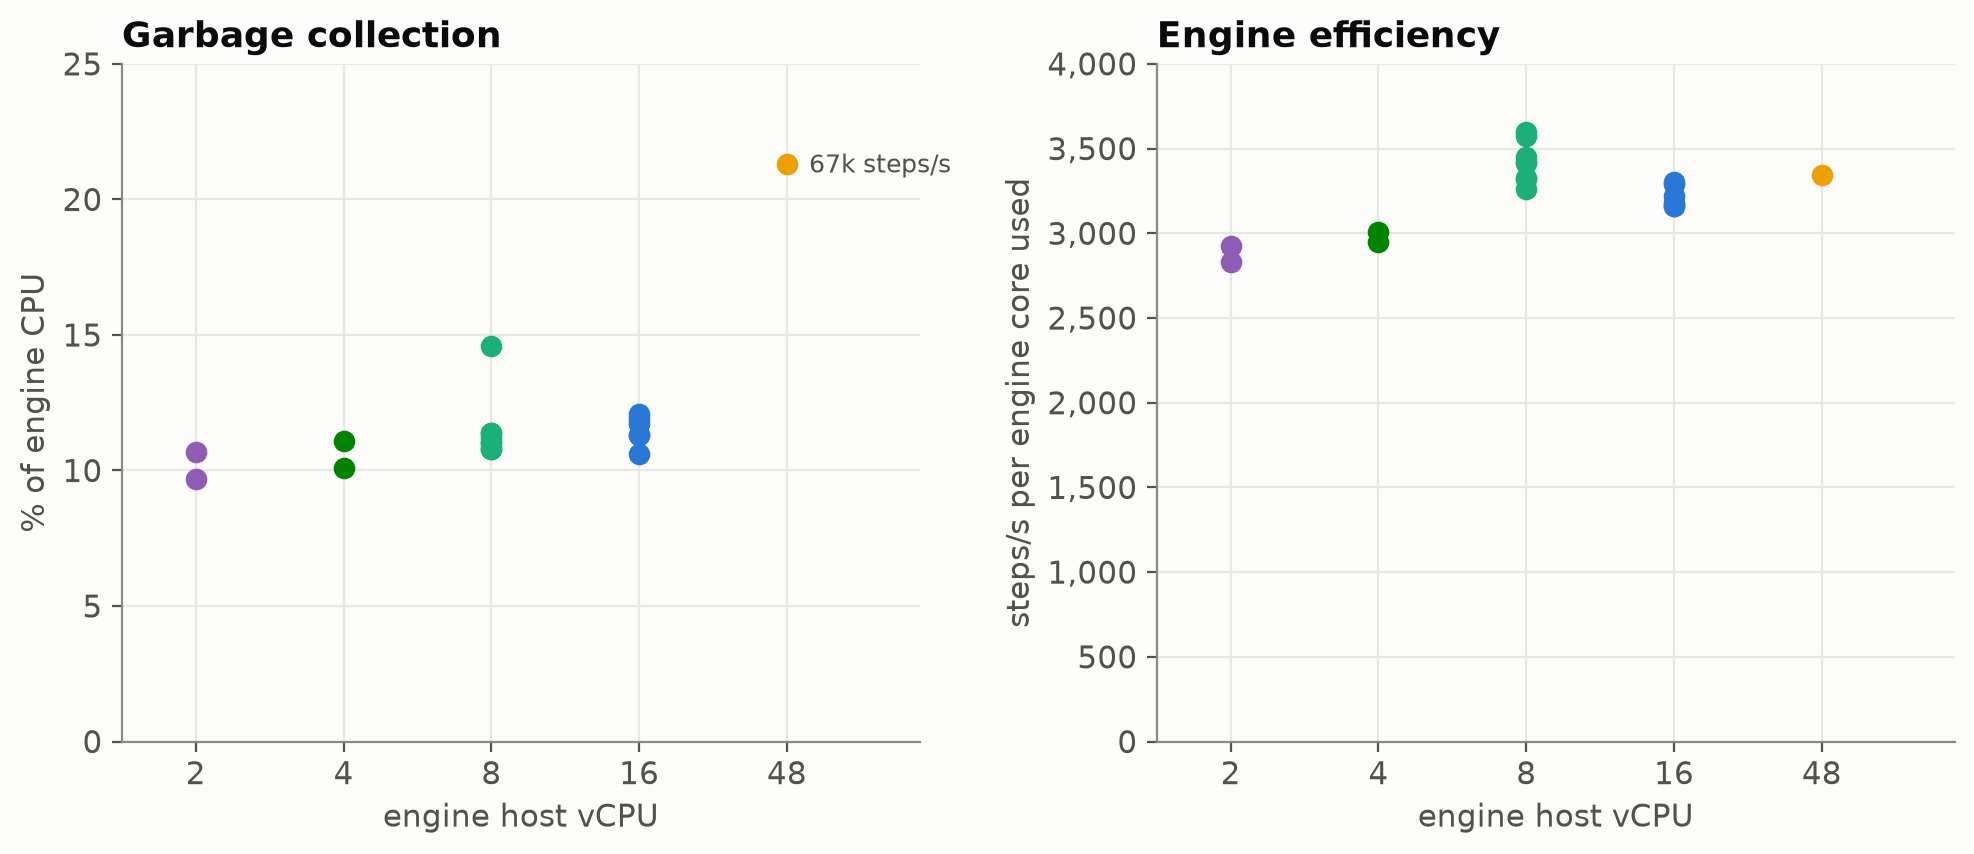
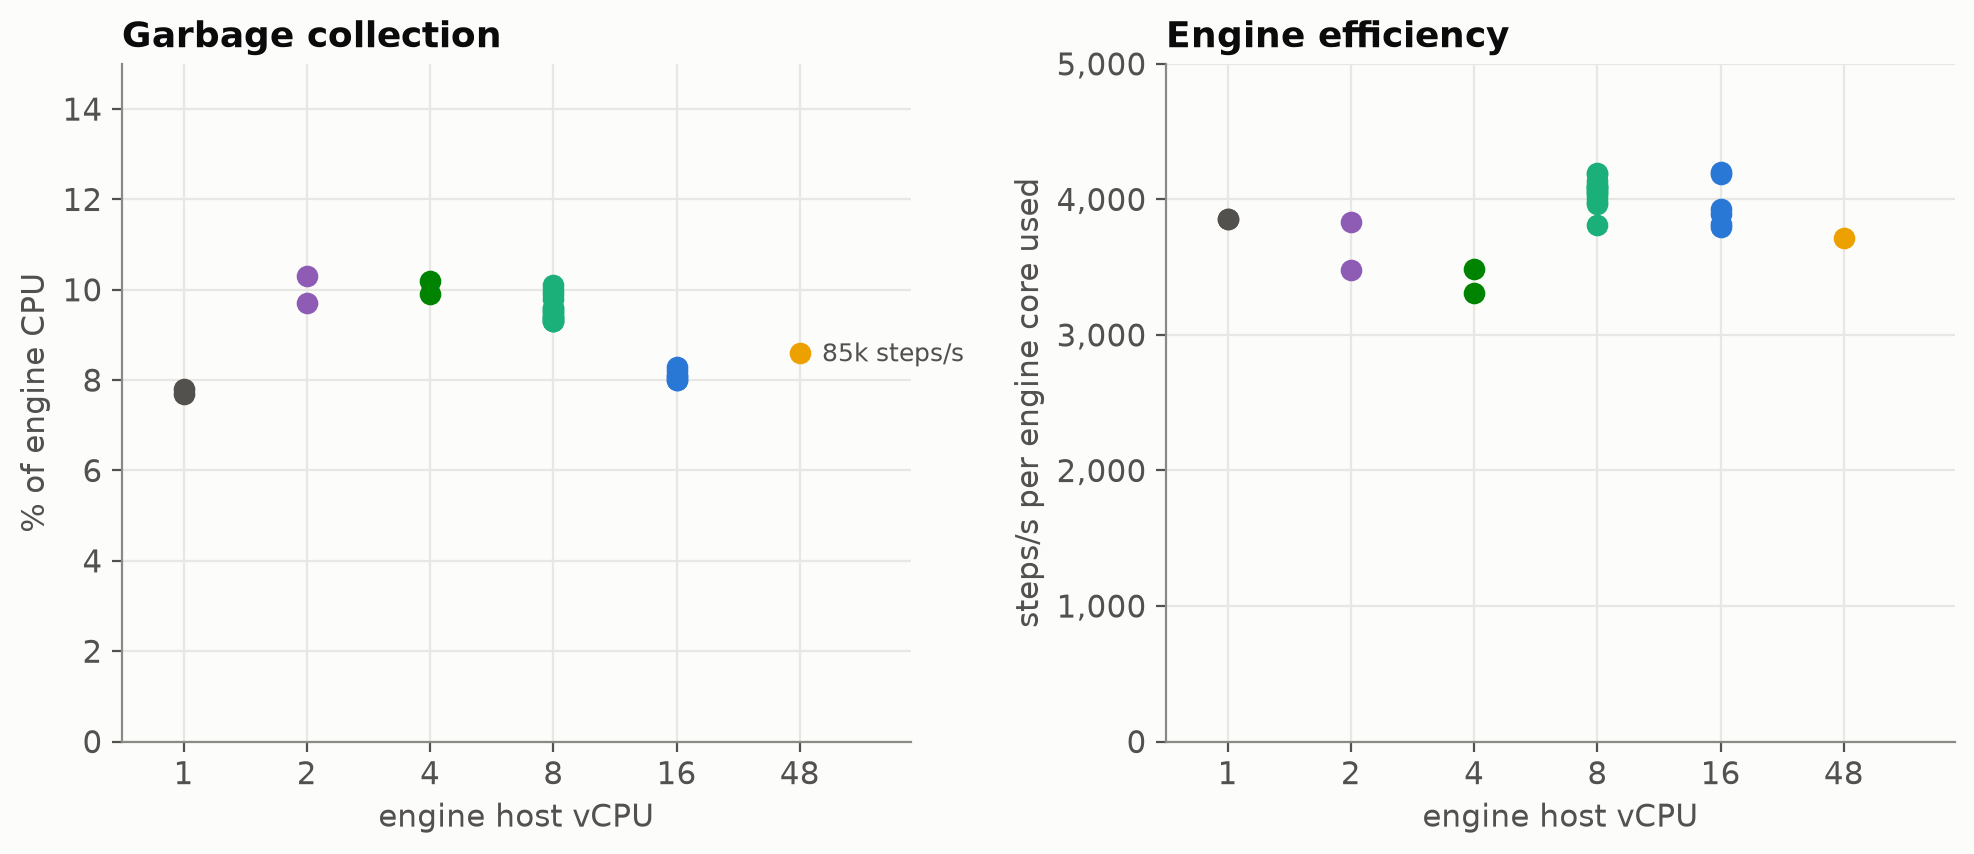
docs: shards, one engine for several, the recommended shape and engine hosts on the archive build
S-A (2026-11-06, e5dbf59, four 32 vCPU instances, 20 GB + lz4, archive on,
2 + 6 min): 1 / 2 / 4 shards with two 8 vCPU replicas each ran 24,108 /
47,437 / 91,800 steps/s (x1.00 / x1.97 / x3.81), and four shards on one
48 vCPU engine 84,648 (92% of the replicas, 22.8 cores, p99 5.0 s); every
shard's database check clean.

benchmark-cloud.md: the shards table and chart, the one-engine section, the
recommended shape and the engine-host table and chart replace the
pre-archive ones. Garbage collection now takes 8-10% of engine CPU on every
host from 1 to 48 vCPU (8.6% on 48), so the advice to cap GOMAXPROCS and
raise GOGC on large hosts, which rested on ~21% there, is gone. The one
16 vCPU replica per shard shape (S) is dropped: same price, less
throughput, one fewer replica to fail over to; its evidence (two shards on
one engine, 2026-10-10; four shards on 4 x 16 vCPU, earlier engine) goes
with it. deployment.md follows: the multi-shard reference rows, one engine
core per ~3,700 steps/s on a large host.

diff --git a/bench/charts_cloud.py b/bench/charts_cloud.py
@@ -142,19 +142,20 @@ def chart_tiers():
 
 
 # ---- Shards: grouped bars by fleet shape, a dashed linear mark over each group ----
-# One session on one set of four 32 vCPU instances, engine 9e5d16b, 2026-10-19 (redo-s2-20261019): the 4-shard
-# arms first, then the two slowest instances removed for 2 shards, then the next for 1. Each bar is the sum of its
-# replicas' artifacts.
-ONE_SHARD = 21267
+# S-A: one session on one set of four 32 vCPU instances, engine e5dbf59, archive on, 20 GB + lz4, 2 + 6 min,
+# 2026-11-06 (redo-sa-20261106): the 4-shard arms first, then the two slowest instances removed for 2 shards, then
+# the next for 1. Each bar is the sum of its replicas' artifacts.
+ONE_SHARD = 24108
 SHARD_GROUPS = [  # (shards, [(steps/s, tick label, colour)])
-    (1, [(21267, "2 replicas\n8 vCPU", S2)]),
-    (2, [(43135, "4 replicas\n8 vCPU", S2)]),
-    (4, [(81530, "8 replicas\n8 vCPU", S2), (66250, "1 replica\n48 vCPU", S3)]),
+    (1, [(24108, "2 replicas\n8 vCPU", S2)]),
+    (2, [(47437, "4 replicas\n8 vCPU", S2)]),
+    (4, [(91800, "8 replicas\n8 vCPU", S2), (84648, "1 replica\n48 vCPU", S3)]),
 ]
 
 
 def chart_shards():
     fig, ax = plt.subplots(figsize=(9, 5.2))
+    ax.set_axisbelow(True)
     w = 0.27
     ticks, ticklabels = [], []
     for g, (n, bars) in enumerate(SHARD_GROUPS):
@@ -173,9 +174,9 @@ def chart_shards():
     ax.set_xticklabels(ticklabels, fontsize=8.5)
     ax.tick_params(axis="x", length=0)
     ax.set_xlim(-0.6, len(SHARD_GROUPS) - 0.4)
-    ax.set_ylim(0, 96000)
+    ax.set_ylim(0, 106000)
     ax.yaxis.set_major_formatter(kilo)
-    ax.set_ylabel("steps/s (16-min window mean)")
+    ax.set_ylabel("steps/s (6-min window mean)")
     ax.set_title("Throughput by shard count and fleet shape")
     ax.legend(handles=[Patch(color=S2, label="two 8 vCPU replicas per shard"),
                        Patch(color=S3, label="one 48 vCPU replica for all shards"),
@@ -185,22 +186,27 @@ def chart_shards():
 
 
 # ---- Engine host size: GC share of engine CPU, and steps per engine core ----
-# One row per engine replica: (engine host vCPU, steps/s, engine cores used, GC % of engine CPU). GC share is
-# the CPU profile's cumulative runtime.gcBgMarkWorker + gcAssistAlloc + bgsweep; steps and cores are the
-# artifact's stepsPerSec and host.cpuCores.
+# One row per engine replica: (engine host vCPU, steps/s, engine cores used, GC % of engine CPU), from the artifact's
+# stepsPerSec, host.cpuCores and host.gcCPUPct (the Go runtime's own GC CPU accounting), all 2026-11-06 on the
+# archive build: 1, 2 and 4 vCPU from T-A (pairs on 4, 8, 16 vCPU databases), 16 vCPU from T-A's 64 vCPU arms and the
+# HA rig's 0 B runs, 8 vCPU from S-A's 8-, 4- and 2-replica arms, 48 vCPU from S-A's one replica on four shards.
 ENGINE_HOSTS = [
-    (16, 17938, 5.43, 11.3), (16, 8404, 2.66, 10.6), (16, 17133, 5.32, 12.1), (16, 16767, 5.27, 11.9),
-    (16, 17502, 5.32, 11.3), (16, 32564, 10.3, 11.7),
-    (8, 8455, 2.47, 14.6), (8, 9684, 2.97, 10.8), (8, 9770, 2.83, 11.4), (8, 9762, 2.86, 11.0),
-    (8, 9491, 2.86, 11.0), (8, 9545, 2.87, 10.8), (8, 9837, 2.75, 11.4), (8, 8385, 2.33, 11.2),
-    (48, 66843, 20.0, 21.3),
-    (2, 2010, 0.71, 10.7), (4, 3816, 1.27, 11.1), (2, 2049, 0.7, 9.7), (4, 3892, 1.32, 10.1),
+    (1, 925, 0.24, 7.8), (1, 925, 0.24, 7.7), (2, 2295, 0.66, 9.7), (2, 2298, 0.60, 10.3),
+    (4, 4106, 1.24, 10.2), (4, 4114, 1.18, 9.9),
+    (8, 11101, 2.77, 9.5), (8, 10915, 2.75, 9.3), (8, 11092, 2.73, 9.9), (8, 11927, 2.85, 9.6),
+    (8, 12036, 2.93, 9.4), (8, 11868, 2.93, 9.5), (8, 11939, 3.13, 10.0), (8, 10922, 2.68, 9.3),
+    (8, 11835, 2.89, 9.4), (8, 11867, 2.98, 9.6), (8, 11822, 2.82, 9.4), (8, 11913, 2.88, 10.1),
+    (8, 12023, 2.94, 9.8), (8, 12085, 2.99, 9.3),
+    (16, 14681, 3.77, 8.2), (16, 12300, 3.13, 8.3), (16, 14659, 3.86, 8.1), (16, 12293, 3.22, 8.0),
+    (16, 23938, 5.70, 8.1), (16, 24262, 5.79, 8.0),
+    (48, 84648, 22.78, 8.6),
 ]
 
 
 def chart_engine_hosts():
-    pos = {2: 0, 4: 1, 8: 2, 16: 3, 48: 4}
-    colour = {2: S5, 4: S4, 8: S2, 16: S1, 48: S3}
+    sizes = [1, 2, 4, 8, 16, 48]
+    pos = {v: i for i, v in enumerate(sizes)}
+    colour = {1: INK2, 2: S5, 4: S4, 8: S2, 16: S1, 48: S3}
     fig, axes = plt.subplots(1, 2, figsize=(10, 4.4))
     for vcpu, steps, cores, gc in ENGINE_HOSTS:
         axes[0].scatter(pos[vcpu], gc, s=46, color=colour[vcpu], zorder=3)
@@ -210,14 +216,15 @@ def chart_engine_hosts():
             axes[0].annotate(f"{steps / 1000:.0f}k steps/s", (pos[vcpu], gc), xytext=(8, -3),
                              textcoords="offset points", fontsize=9, color=INK2)
     for ax in axes:
-        ax.set_xticks([0, 1, 2, 3, 4])
-        ax.set_xticklabels(["2", "4", "8", "16", "48"])
+        ax.set_axisbelow(True)
+        ax.set_xticks(range(len(sizes)))
+        ax.set_xticklabels([str(v) for v in sizes])
         ax.set_xlabel("engine host vCPU")
-        ax.set_xlim(-0.5, 4.9)
-    axes[0].set_ylim(0, 25)
+        ax.set_xlim(-0.5, len(sizes) - 0.1)
+    axes[0].set_ylim(0, 15)
     axes[0].set_ylabel("% of engine CPU")
     axes[0].set_title("Garbage collection")
-    axes[1].set_ylim(0, 4000)
+    axes[1].set_ylim(0, 5000)
     axes[1].yaxis.set_major_formatter(matplotlib.ticker.FuncFormatter(lambda v, _: f"{v:,.0f}"))
     axes[1].set_ylabel("steps/s per engine core used")
     axes[1].set_title("Engine efficiency")

diff --git a/docs/benchmark-cloud.md b/docs/benchmark-cloud.md
@@ -22,8 +22,8 @@
   shards.
 - **The engine is cheap.** A shard's work takes about 5 engine cores. Two 8 vCPU engine hosts per
   32 vCPU database serve it at about a third of their CPU each, and either can carry it alone.
-- **Shards add throughput linearly.** Four 32 vCPU shards ran 81,530 steps/s, 3.8 times one shard, with
-  each shard at ~95% of what its database runs alone.
+- **Shards add throughput linearly.** Four 32 vCPU shards ran 91,800 steps/s, 3.8 times one shard, each shard
+  at close to what one shard runs alone.
 - **No flow failed in any run.** In the 242 runs behind this page, across 39 sessions, no flow errored and no
   step was left stuck. The engine recovered a crashed worker's step only in the runs that killed engines on
   purpose.
@@ -49,12 +49,9 @@
   ~29,300 at `MaxConnections: 500`.
 - **Keep the engine near its database.** A step makes about five round trips, so distance costs throughput;
   the engine opens more connections as distance grows, which recovers most of it out to 1 ms.
-- **Prefer two small engines per shard to one large engine for several.** One 48 vCPU engine ran four
-  32 vCPU shards at 66,250 steps/s on 18 of its cores, 81% of what eight 8 vCPU engines delivered on the same
-  databases. On a large host, cap `GOMAXPROCS` to the cores it needs: garbage collection takes about twice the
-  share of CPU on 48 vCPU as on 2–16. Raising `GOGC` above its default of 100 trades memory for less of it:
-  `GOGC=400` on a 48 vCPU host cut garbage collection from about a fifth of the engine's CPU to about a
-  twentieth.
+- **Two small engines per shard deliver a little more than one large engine for several.** One 48 vCPU engine
+  ran four 32 vCPU shards at 84,648 steps/s on 23 of its cores, 92% of what eight 8 vCPU engines delivered on the
+  same databases. Garbage collection took 8–10% of the engine's CPU on every host size, 48 vCPU included.
 
 [Sizing a deployment](deployment.md#sizing-a-deployment) turns these into a recipe.
 
@@ -208,44 +205,36 @@ minutes after it):
 ![Throughput by shard count and fleet shape](benchmark-cloud-shards.png)
 
 Each shard is its own 32 vCPU database, served by two 8 vCPU engine replicas. All runs used one set of four
-instances: each was first run alone, saturated, for 6 minutes (20,520–22,724 steps/s), then the four-shard run,
-then the two slowest instances were removed for two shards, and the next for one.
+instances: the four-shard runs first, then the two slowest instances were removed for two shards, and the next for
+one.
 
-| Shards | Replicas | steps/s | vs 1 shard | Per shard | Of the databases' rate alone |
-|---|---|---|---|---|---|
-| 1 | 2 | 21,267 | ×1.00 | 21,267 | 95% |
-| 2 | 4 | 43,135 | ×2.03 | 21,568 | 96% |
-| 4 | 8 | 81,530 | **×3.83** | 20,383 | 94% |
+| Shards | Replicas | steps/s | vs 1 shard | Per shard |
+|---|---|---|---|---|
+| 1 | 2 | 24,108 | ×1.00 | 24,108 |
+| 2 | 4 | 47,437 | ×1.97 | 23,719 |
+| 4 | 8 | 91,800 | **×3.81** | 22,950 |
 
-- **Every shard carries what its database carries alone**, at every shard count: 94–96% of each instance's own
-  saturated rate. The four-shard run includes the two slower instances, which is why its per-shard figure is
-  lower.
-- **The engines were never the limit.** Each 8 vCPU replica used about 2.5 of its cores.
+- **Every shard carries close to what one shard carries alone.** The one-shard run is on the fastest of the four
+  instances; the four-shard run includes the two slower ones, which is why its per-shard figure is lower.
+- **The engines were never the limit.** Each 8 vCPU replica used 2.7–3.1 of its cores.
+- **Every flow completed.** No step was left unfinished on any shard in any run.
 
-*(Measured 2026-10-19.)*
+*(Measured 2026-11-06.)*
 
 ### One engine for several shards
 
-The same shard counts, served by a single replica:
+The same four shards, served by a single 48 vCPU replica: **84,648 steps/s** (×3.51 the one-shard run
+[above](#shards-throughput-adds-up)), on 22.8 of its 48 cores, with the databases at 60–70% CPU.
 
-| Shards | Engine host | steps/s | Engine CPU | Databases |
-|---|---|---|---|---|
-| 2 | 16 vCPU | 32,564 | 10.3 of 16 cores | saturated |
-| 2 | 48 vCPU | 34,049 | 14.8 of 48 cores | saturated |
-| 4 | 48 vCPU | **66,250 (×3.12)** | 18.4 of 48 cores | 53–71% CPU |
-
-- **One engine serves two shards at full speed**, even on a 16 vCPU host, with a third of its CPU to
-  spare.
-- **One engine runs four shards, but below what replicas get from the same databases.** It delivered 66,250
-  steps/s, 81% of the 81,530 that eight 8 vCPU replicas ran on the same four instances, with 30 of its 48 cores
-  idle and the databases short of saturation.
-- **The slowest database set every shard's pace in this run.** All four ran at ~16,600 steps/s, because
-  the load generator places flows evenly and caps flows in flight across all shards: the slowest shard's
-  flows stay in flight longest and fill that shared cap. Shards whose databases ran faster sat with free
+- **One engine runs four shards at 92% of what replicas get from the same databases.** It delivered 84,648
+  steps/s against the 91,800 that eight 8 vCPU replicas ran on the same four instances, with 25 of its 48 cores
+  idle. Its flows waited longer: a p99 of 5.0 s against 1.1–1.7 s.
+- **The slowest database sets every shard's pace.** All four shards ran within 0.3% of each other, ~21,200 steps/s
+  each, because the load generator places flows evenly and caps flows in flight across all shards: the slowest
+  shard's flows stay in flight longest and fill that shared cap. Shards whose databases ran faster sat with free
   capacity. The same holds for any caller that limits its own concurrency across shards.
 
-*(The four-shard row measured 2026-10-19, ×3.12 against the one-shard run [above](#shards-throughput-adds-up);
-the two-shard rows 2026-10-10 on an earlier engine, in a separate session.)*
+*(Measured 2026-11-06.)*
 
 ### Replicas: availability without a throughput cost
 
@@ -276,17 +265,12 @@ One 32 vCPU shard, served by one, two and four replicas on separate hosts:
 **Two 8 vCPU engine replicas for each 32 vCPU database.** With `S` shards, that is `2S` replicas, and each
 replica dispatches exactly one shard.
 
-Measured at four shards and eight c4a-standard-8 replicas: **81,530 steps/s**. At two shards and four
-replicas, each replica carried 10,600–10,900 steps/s on about 2.5 of its 8 cores. If one replica of a shard
-fails, the other takes over its share: about 5 cores, which still fits an 8 vCPU host.
+Measured at four shards and eight c4a-standard-8 replicas: **91,800 steps/s**. At two shards and four
+replicas, each replica carried 11,800–11,900 steps/s on about 2.9 of its 8 cores. If one replica of a shard
+fails, the other takes over its share: about 6 cores, which still fits an 8 vCPU host.
 
-| Replicas | Shards each replica dispatches | Engine host | Engine CPU used |
-|---|---|---|---|
-| `2S` | 1 | 8 vCPU | ~2.5 cores |
-| `S` | 2 | 16 vCPU | 5.3–5.6 cores |
-
-Choose `S` or `2S` replicas so every replica carries the same share. Replicas beyond `2S` add standby
-capacity and capacity for your own traffic, not workflow throughput.
+Two replicas per shard give each shard a dispatcher to fail over to and keep every replica's share equal.
+Replicas beyond `2S` add standby capacity and capacity for your own traffic, not workflow throughput.
 
 The same rule scales down: two engines at half the database's vCPU (see
 [Database size](#database-size-what-limits-each)).
@@ -297,23 +281,20 @@ The same rule scales down: two engines at half the database's vCPU (see
 
 | Engine host | Runs | steps/s per engine core | Garbage collection, share of engine CPU |
 |---|---|---|---|
-| 2 vCPU | 2 replicas on an 8 vCPU database | 2,850–2,950 | 10–11% |
-| 4 vCPU | 2 replicas on a 16 vCPU database | 2,950–3,000 | 10–11% |
-| 8 vCPU | 8 replicas on 4 shards | 3,250–3,600 | 11–15% |
-| 16 vCPU | 1 or 2 shards per replica | 3,150–3,300 | 11–12% |
-| 48 vCPU | 1 replica on 4 shards | 3,350 | 21% |
+| 1 vCPU | 2 replicas on a 4 vCPU database | 3,850 | 8% |
+| 2 vCPU | 2 replicas on an 8 vCPU database | 3,480–3,830 | 10% |
+| 4 vCPU | 2 replicas on a 16 vCPU database | 3,310–3,490 | 10% |
+| 8 vCPU | 2 replicas per shard, 1 to 4 shards | 3,810–4,190 | 9–10% |
+| 16 vCPU | 1 replica on a 32 vCPU database, or 2 on a 64 vCPU one | 3,800–4,200 | 8% |
+| 48 vCPU | 1 replica on 4 shards | 3,720 | 9% |
 
-- **The database is the limit.** An engine host from 2 to 16 vCPU runs at about a third of its CPU while
+- **The database is the limit.** An engine host from 1 to 16 vCPU runs at a quarter to a third of its CPU while
   its database is saturated, and a 48 vCPU host serving four shards at under half.
-- **Steps per core hardly depend on the host's size; garbage collection's share does.** On a 48 vCPU host
-  the engine's garbage collection takes about twice the share of CPU it takes on 2 to 16 vCPU. Go sizes
-  its runtime to every core it may use, and the collector's cost grows with that count, so on a large
-  host set `GOMAXPROCS` to the cores the engine needs rather than the whole host (see
-  [Sizing a deployment](deployment.md#sizing-a-deployment)).
+- **Steps per core and garbage collection's share hardly depend on the host's size.** Every host ran
+  3,300–4,200 steps/s per core, with garbage collection at 8–10% of the engine's CPU.
 
-These figures are the engine's own cost, measured 2026-10-09/12. On the current engine, one 16 vCPU host
-driving a 32 vCPU database ran 4,100–4,300 steps/s per engine core (2026-10-17). Your tasks run on the same
-hosts and need their own headroom.
+These figures are the engine's own cost, measured 2026-11-06. Your tasks run on the same hosts and need their own
+headroom.
 
 ### Minute by minute
 

diff --git a/docs/deployment.md b/docs/deployment.md
@@ -420,11 +420,10 @@ measure your own workload: task shape, payload size and round-trip time all move
    ([PostgreSQL](#postgresql--recommended-for-production)).
 2. **Engine replicas.** Two per shard at half the database's vCPU: `2S` replicas of 8 vCPU for 32 vCPU
    shards. Each runs at about a third of its CPU and can carry its shard alone. A larger host can serve
-   several shards instead: give its engine about one core per 3,300 steps/s its shards can deliver at
-   most - four 32 vCPU shards, ~20–24 cores - and set `GOMAXPROCS` to that plus whatever your tasks use
-   in the same process, rather than leaving it at the host's full count. Run at least two such hosts, so
-   one can fail. Expect less from it: one 48 vCPU engine on four shards ran 81% of what eight 8 vCPU
-   replicas ran on the same databases, so prefer `2S` small replicas where you can.
+   several shards instead: give its engine about one core per 3,700 steps/s its shards can deliver at
+   most - four 32 vCPU shards, ~23–25 cores - plus whatever your tasks use in the same process. Run at least
+   two such hosts, so one can fail. Expect a little less from it: one 48 vCPU engine on four shards ran 92% of
+   what eight 8 vCPU replicas ran on the same databases, and its flows waited longer.
 3. **Your tasks.** Add the CPU and memory your tasks use on the engine hosts. The engine itself holds ~15 KB
    per flow in flight, plus the state of each step it is running - large payloads need far more
    ([State size](benchmark-cloud.md#state-size)); with long tasks, flows in flight = flows/s × flow duration.
@@ -471,9 +470,8 @@ to stay under `C` is then the urgent work alone. Three things to know:
 
 Measured points to start a capacity plan from. All are Cloud SQL for PostgreSQL 16 on a 1 TB SSD, in the
 same zone as the engine (round trip ~0.06 ms), running a 10-step chain of no-op tasks saturated against a
-fresh database. The single-database rows ran with the archive on and checkpoints sized as recommended, averaged
-over a 6-minute window; the multi-shard rows were measured on an earlier build, before the archive, over 16
-minutes. The full conditions are in the [cloud benchmarks](benchmark-cloud.md).
+fresh database, with the archive on and checkpoints sized as recommended, averaged over a 6-minute window. The full
+conditions are in the [cloud benchmarks](benchmark-cloud.md).
 
 | shards × database vCPUs | engine replicas | steps/s |
 |---|---|---|
@@ -483,11 +481,10 @@ minutes. The full conditions are in the [cloud benchmarks](benchmark-cloud.md).
 | 1 × 32 | 1 × 16 vCPU | 18,852–24,262 (two instances) |
 | 1 × 64 | 2 × 16 vCPU | 24,593 |
 | 1 × 64 (`MaxConnections: 500`) | 2 × 16 vCPU | 29,340 |
-| 1 × 32 | 2 × 8 vCPU | 21,267 |
-| 2 × 32 | 4 × 8 vCPU | 43,135 |
-| 4 × 32 | 8 × 8 vCPU | 81,530 |
-| 4 × 32 | 1 × 48 vCPU | 66,250 |
-| 4 × 32 | 4 × 16 vCPU | 69,382 (earlier engine) |
+| 1 × 32 | 2 × 8 vCPU | 24,108 |
+| 2 × 32 | 4 × 8 vCPU | 47,437 |
+| 4 × 32 | 8 × 8 vCPU | 91,800 |
+| 4 × 32 | 1 × 48 vCPU | 84,648 |
 
 ## Shutting down
 
